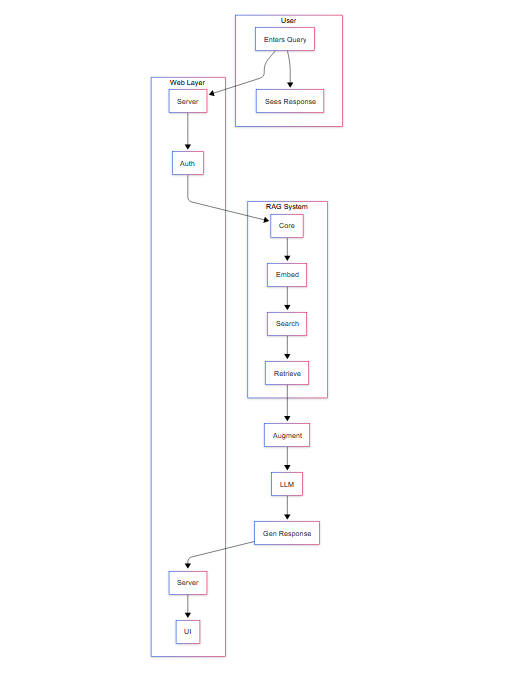
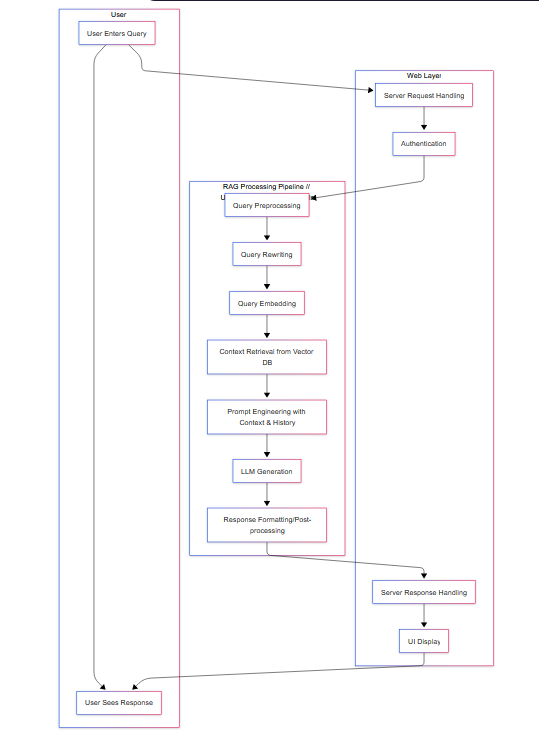
updated data workflow architecture digram

diff --git a/docs/ARCHITECTURE_DIAGRAMS.md b/docs/ARCHITECTURE_DIAGRAMS.md
@@ -58,26 +58,40 @@ graph TD
 ```mermaid
 graph TD
     subgraph "User"
-    A[Enters Query] --> M[Sees Response]
+        A[User Enters Query] --> M[User Sees Response]
     end
     
     subgraph "Web Layer"
-    B[Server] --> C[Auth]
-    K[Server] --> L[UI]
+        B[Server Request Handling]
+        Auth[Authentication]
+        K[Server Response Handling]
+        UI[UI Display]
+
+        B --> Auth
+        K --> UI
     end
     
-    subgraph "RAG System"
-    D[Core] --> E[Embed]
-    E --> F[Search]
-    F --> G[Retrieve]
+    subgraph "RAG Processing Pipeline" // Updated RAG System details
+        QueryPreProc[Query Preprocessing]
+        QueryRewrite[Query Rewriting]
+        QueryEmbed[Query Embedding]
+        ContextRetrieve[Context Retrieval from Vector DB]
+        PromptEng[Prompt Engineering with Context & History]
+        LLMGen[LLM Generation]
+        ResponseFormat[Response Formatting/Post-processing]
+
+        QueryPreProc --> QueryRewrite
+        QueryRewrite --> QueryEmbed
+        QueryEmbed --> ContextRetrieve
+        ContextRetrieve --> PromptEng
+        PromptEng --> LLMGen
+        LLMGen --> ResponseFormat
     end
     
     A --> B
-    C --> D
-    G --> H[Augment]
-    H --> I[LLM]
-    I --> J[Gen Response]
-    J --> K
+    Auth --> QueryPreProc 
+    ResponseFormat --> K
+    UI --> M
 ```
 
 ### 3. Deployment Diagram (Docker Focus)
